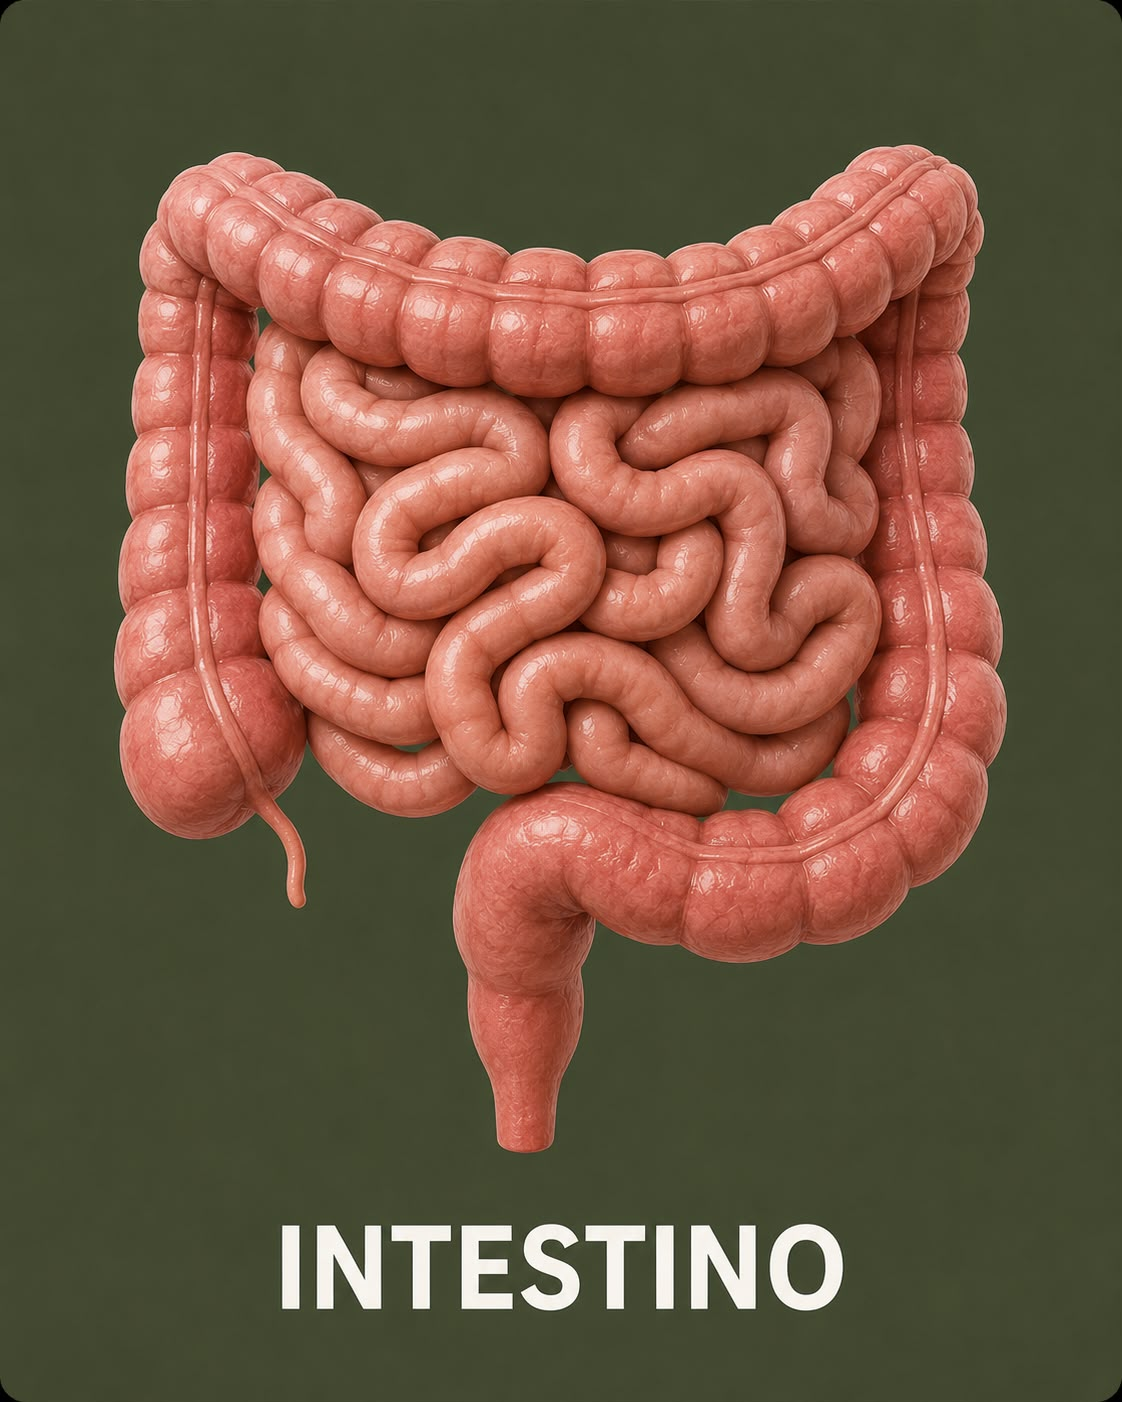
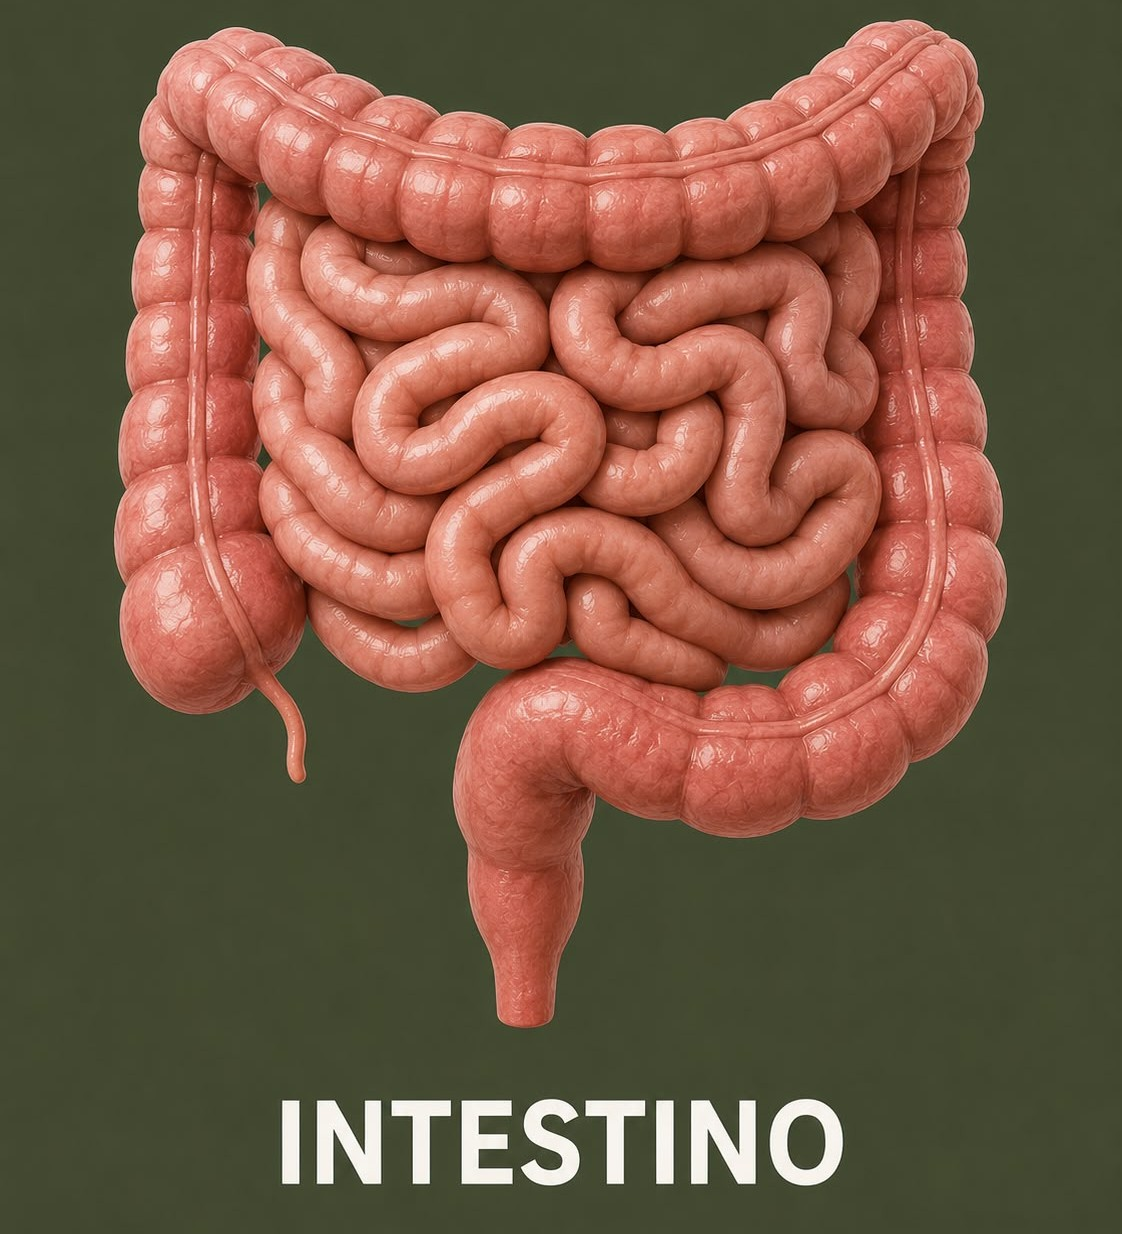
update game difficulty settings to increase pairs and adjust layout styles

diff --git a/src/config/gameConfig.ts b/src/config/gameConfig.ts
@@ -62,7 +62,7 @@ export const GAME_CONFIG = {
     difficulties: {
         easy: {
             label: 'Fácil',
-            pairs: 5,           // 6 pares = 12 cartas
+            pairs: 10,           // 6 pares = 12 cartas
             gridCols: 4,        // 4 colunas
             memorizeTime: 10,   // segundos para memorizar
             playTime: 45,       // segundos para jogar
@@ -71,7 +71,7 @@ export const GAME_CONFIG = {
         },
         medium: {
             label: 'Médio',
-            pairs: 5,           // 8 pares = 16 cartas
+            pairs: 10,           // 8 pares = 16 cartas
             gridCols: 4,
             memorizeTime: 5,
             playTime: 45,
@@ -80,8 +80,8 @@ export const GAME_CONFIG = {
         },
         hard: {
             label: 'Difícil',
-            pairs: 5,          // 10 pares = 20 cartas
-            gridCols: 5,
+            pairs: 10,          // 10 pares = 20 cartas
+            gridCols: 4,
             memorizeTime: 0,    // sem tempo de memorização
             playTime: 45,
             color: 'from-red-500 to-rose-600',

diff --git a/src/screens/GameScreen.tsx b/src/screens/GameScreen.tsx
@@ -68,10 +68,10 @@ export const GameScreen: React.FC<Props> = ({ difficulty, onFinish, onExit }) =>
     };
 
     return (
-        <div className="flex flex-col items-center gap-4 sm:gap-6 w-full max-w-4xl mx-auto px-3 sm:px-4 py-4 animate-fade-in">
-            <img src={GAME_CONFIG.logo} alt="" className='w-[50vw] min-w-100' />
+        <div className="flex flex-col items-center gap-4 sm:gap-4 w-full max-w-4xl mx-auto px-3 sm:px-4 py-2 animate-fade-in">
+            <img src={GAME_CONFIG.logo} alt="" className='w-[40vw] min-w-100' />
             {/* Header */}
-            <div className="w-full flex flex-col sm:flex-row items-center justify-between gap-3 sm:gap-4">
+            <div className="w-full flex flex-col sm:flex-row items-center justify-between gap-3 sm:gap-3">
                 <button
                     onClick={onExit}
                     className=" transition-colors text-sm underline underline-offset-4 order-2 sm:order-1"
